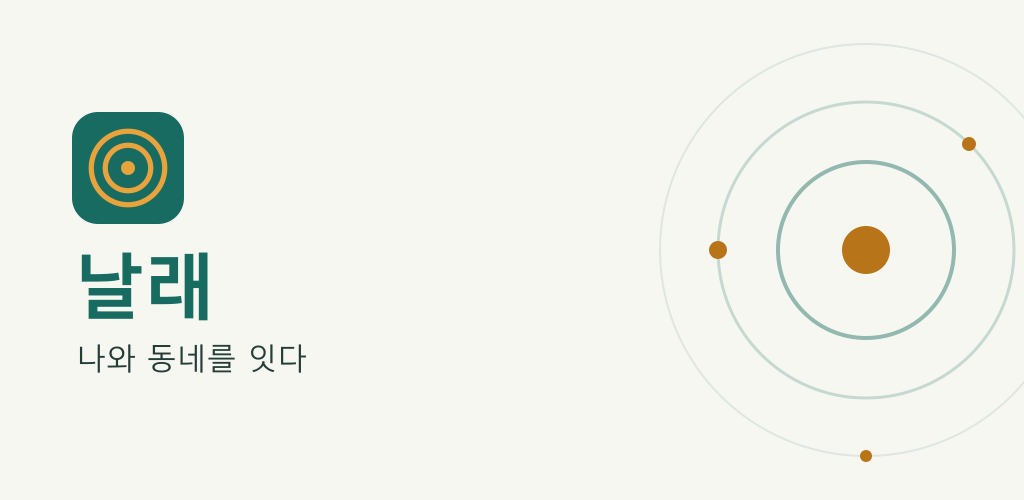
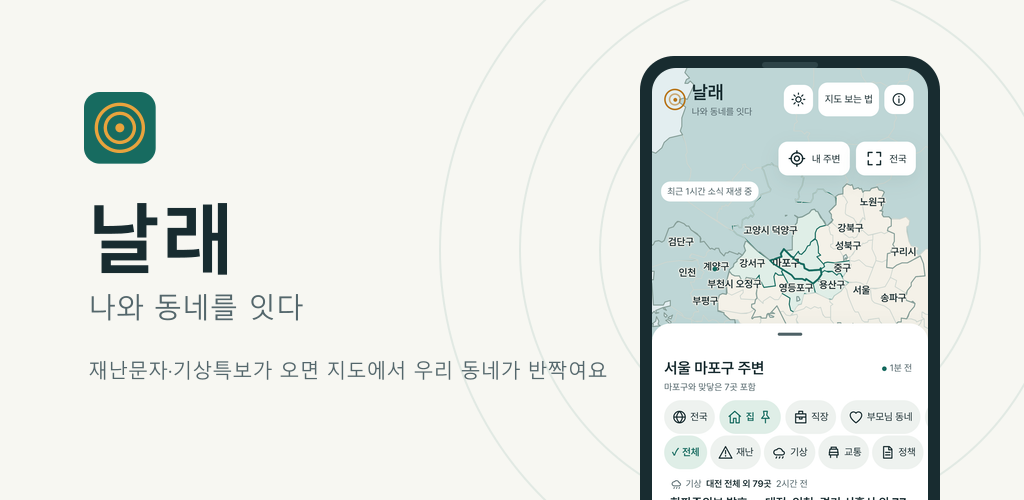
스토어 자산 교체: 새 아이콘, 실데이터 스크린샷 4장(1080×1920), 휴대폰 틀 대표 이미지

diff --git a/store/listing.md b/store/listing.md
@@ -42,8 +42,8 @@
 | 항목 | 규격 | 파일 |
 |---|---|---|
 | 앱 아이콘 | 512×512 PNG | `store/icon-512.png` |
-| 그래픽 이미지 | 1024×500 PNG/JPG | `store/feature-1024x500.png` |
-| 휴대전화 스크린샷 | 2~8장, 9:16 | `store/screenshot-*.png` |
+| 그래픽 이미지 | 1024×500 PNG/JPG | `store/feature-1024x500.png` (실제 앱 화면 + 아이콘, `node scripts/build-feature.mjs`) |
+| 휴대전화 스크린샷 | 2~8장, 9:16 | `store/screenshot-*.png` (실데이터 1080×1920: 전국·내 동네·목록·다크, `node scripts/screenshots.mjs`) |
 
 ## 데이터 보안 양식 (Data safety) 답변 초안
 - 앱이 사용자 데이터를 수집하거나 공유하나요? → **아니요**
